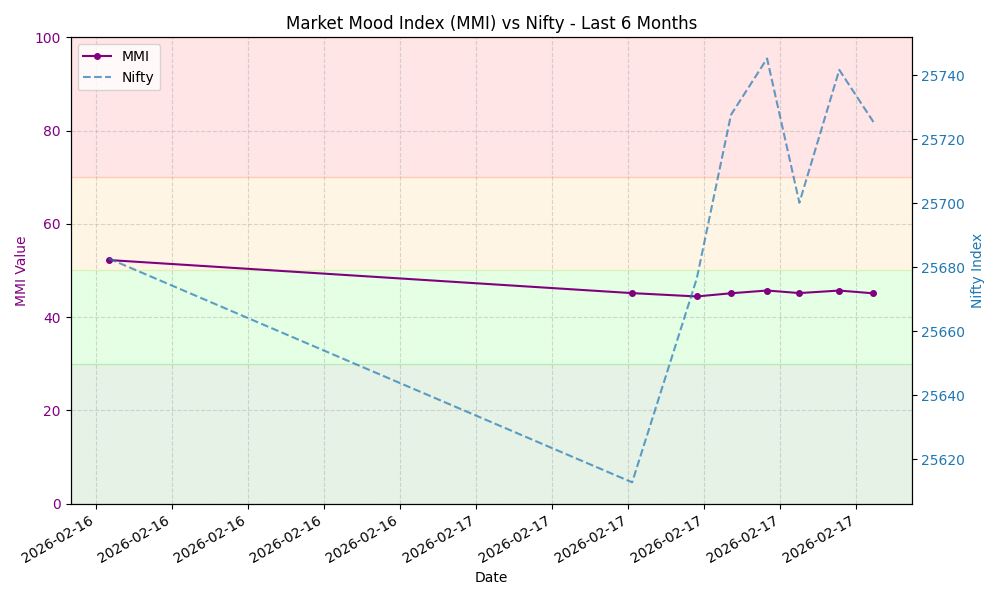
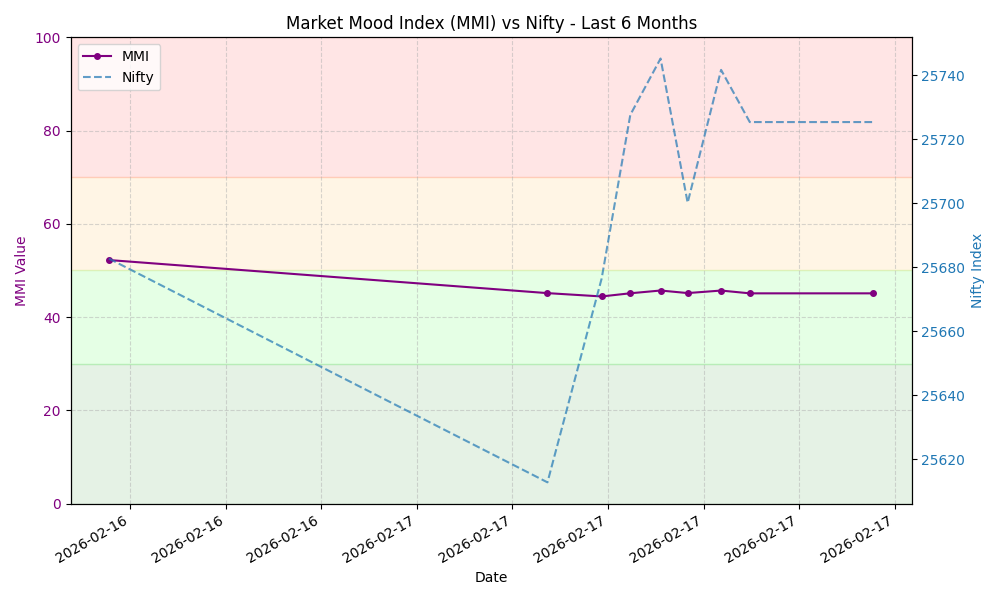
Update MMI data and chart

diff --git a/README.md b/README.md
@@ -8,7 +8,7 @@ This repository automatically fetches the MMI value, stores the history, and gen
 ## Latest MMI Value
 
 **45.09** - **Fear**
-<small>Last Updated: 2026-02-17 10:27 UTC</small>
+<small>Last Updated: 2026-02-17 14:20 UTC</small>
 
 ## MMI Trend (Last 30 Days)
 
